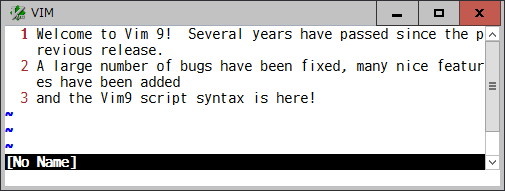
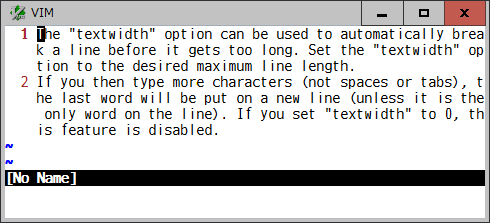
Update 3.3

diff --git a/README.md b/README.md
@@ -1,6 +1,6 @@
 # wrapwidth
 
-### Wraps long lines visually at a specific column
+### Wraps long lines virtually at a specific column
 
 The `wrap` option is useful but no way to select a column to be wrapped. And
 the `textwidth` and `wrapmargin` options break a long line but it is hard
@@ -9,24 +9,24 @@ wrapped in insert mode.
 ![sample0](sample0.png)
 
 This plugin provides the *:Wrapwidth* command to set a column at which a
-longer line will be visually wrapped. When `wrap` is on, the required number
+longer line will be virtually wrapped. When `wrap` is on, the required number
 of blank spaces are inserted as **virtual-text** at right edge of each screen
 line.
 
 ![sample1](sample1.png)
-
-![sample2](sample2.png)
 
 While *wrapwidth* is enabled, those virtual spaces will be adjusted with
 several options (such as `linebreak`, `showbreak`, `number`, `numberwidth`,
 `foldcolumn`, `tabstop`) as well as the change of text and window width, which
 affect the way the text is visually displayed.
 
-If a file is big and not necessary to visually wrap all lines at the same
-column, it is possible to specify a range to set *wrapwidth* lines.
+And you can set some of the *wrapwidth* specific options buffer-locally or
+globally to see a wrap position sign and count number on each wrapped line.
 
-When `list` is on, an "extends" character specified in `listchars` is shown
-at the wrap column in the virtual spaces.
+![sample2](sample2.png)
+
+If a file is big and not necessary to virtually wrap all lines at the same
+column, it is possible to specify a range to set *wrapwidth* lines.
 
 Note that the inline **virtual-text** feature has been implemented in vim
 post-9.0 patches and nvim 0.10.0.
@@ -35,7 +35,7 @@ post-9.0 patches and nvim 0.10.0.
 
 * `:[range]Wrapwidth N`
   * Set a *wrapwidth* at the N-th column in the current buffer. A longer line
-    will be visually wrapped at that column and continued to the next screen
+    will be virtually wrapped at that column and continued to the next screen
     line. It is possible to specify *wrapwidth* lines in `[range]` (default: all
     lines) in a buffer.
     - N > 0: a text width from left edge of a text, like `textwidth`
@@ -43,11 +43,20 @@ post-9.0 patches and nvim 0.10.0.
     - N = 0: disables the *wrapwidth*
 
 * `:[range]Wrapwidth!`
-  * Redraw the *wrapwidth* virtual spaces set in the current buffer. It an be
-    useful when those spaces are accidentally displaced by other virtual text
-    than *wrapwidth*.
+  * Redraw the *wrapwidth* virtual spaces set in the current buffer (since
+    patch 9.0.1762). It can be useful when those spaces are accidentally
+    displaced by other virtual text than *wrapwidth*.
 
-#### Option
+#### Options
 
 * `b:wrapwidth_hl`, `g:wrapwidth_hl`
-  * A highlight group name to make *wrapwidth* virtual spaces visible.
+  * A highlight group name to make *wrapwidth* virtual spaces visible (default:
+  'NonText').
+
+* `b:wrapwidth_sign`, `g:wrapwidth_sign`
+  * A string to indicate the position of the wrap column in the virtual spaces
+    (default: '').
+
+* `b:wrapwidth_number`, `g:wrapwidth_number`
+  * Enable (1) or disable (0) the count number to show on each of the wrapped
+    line (default: 0).
